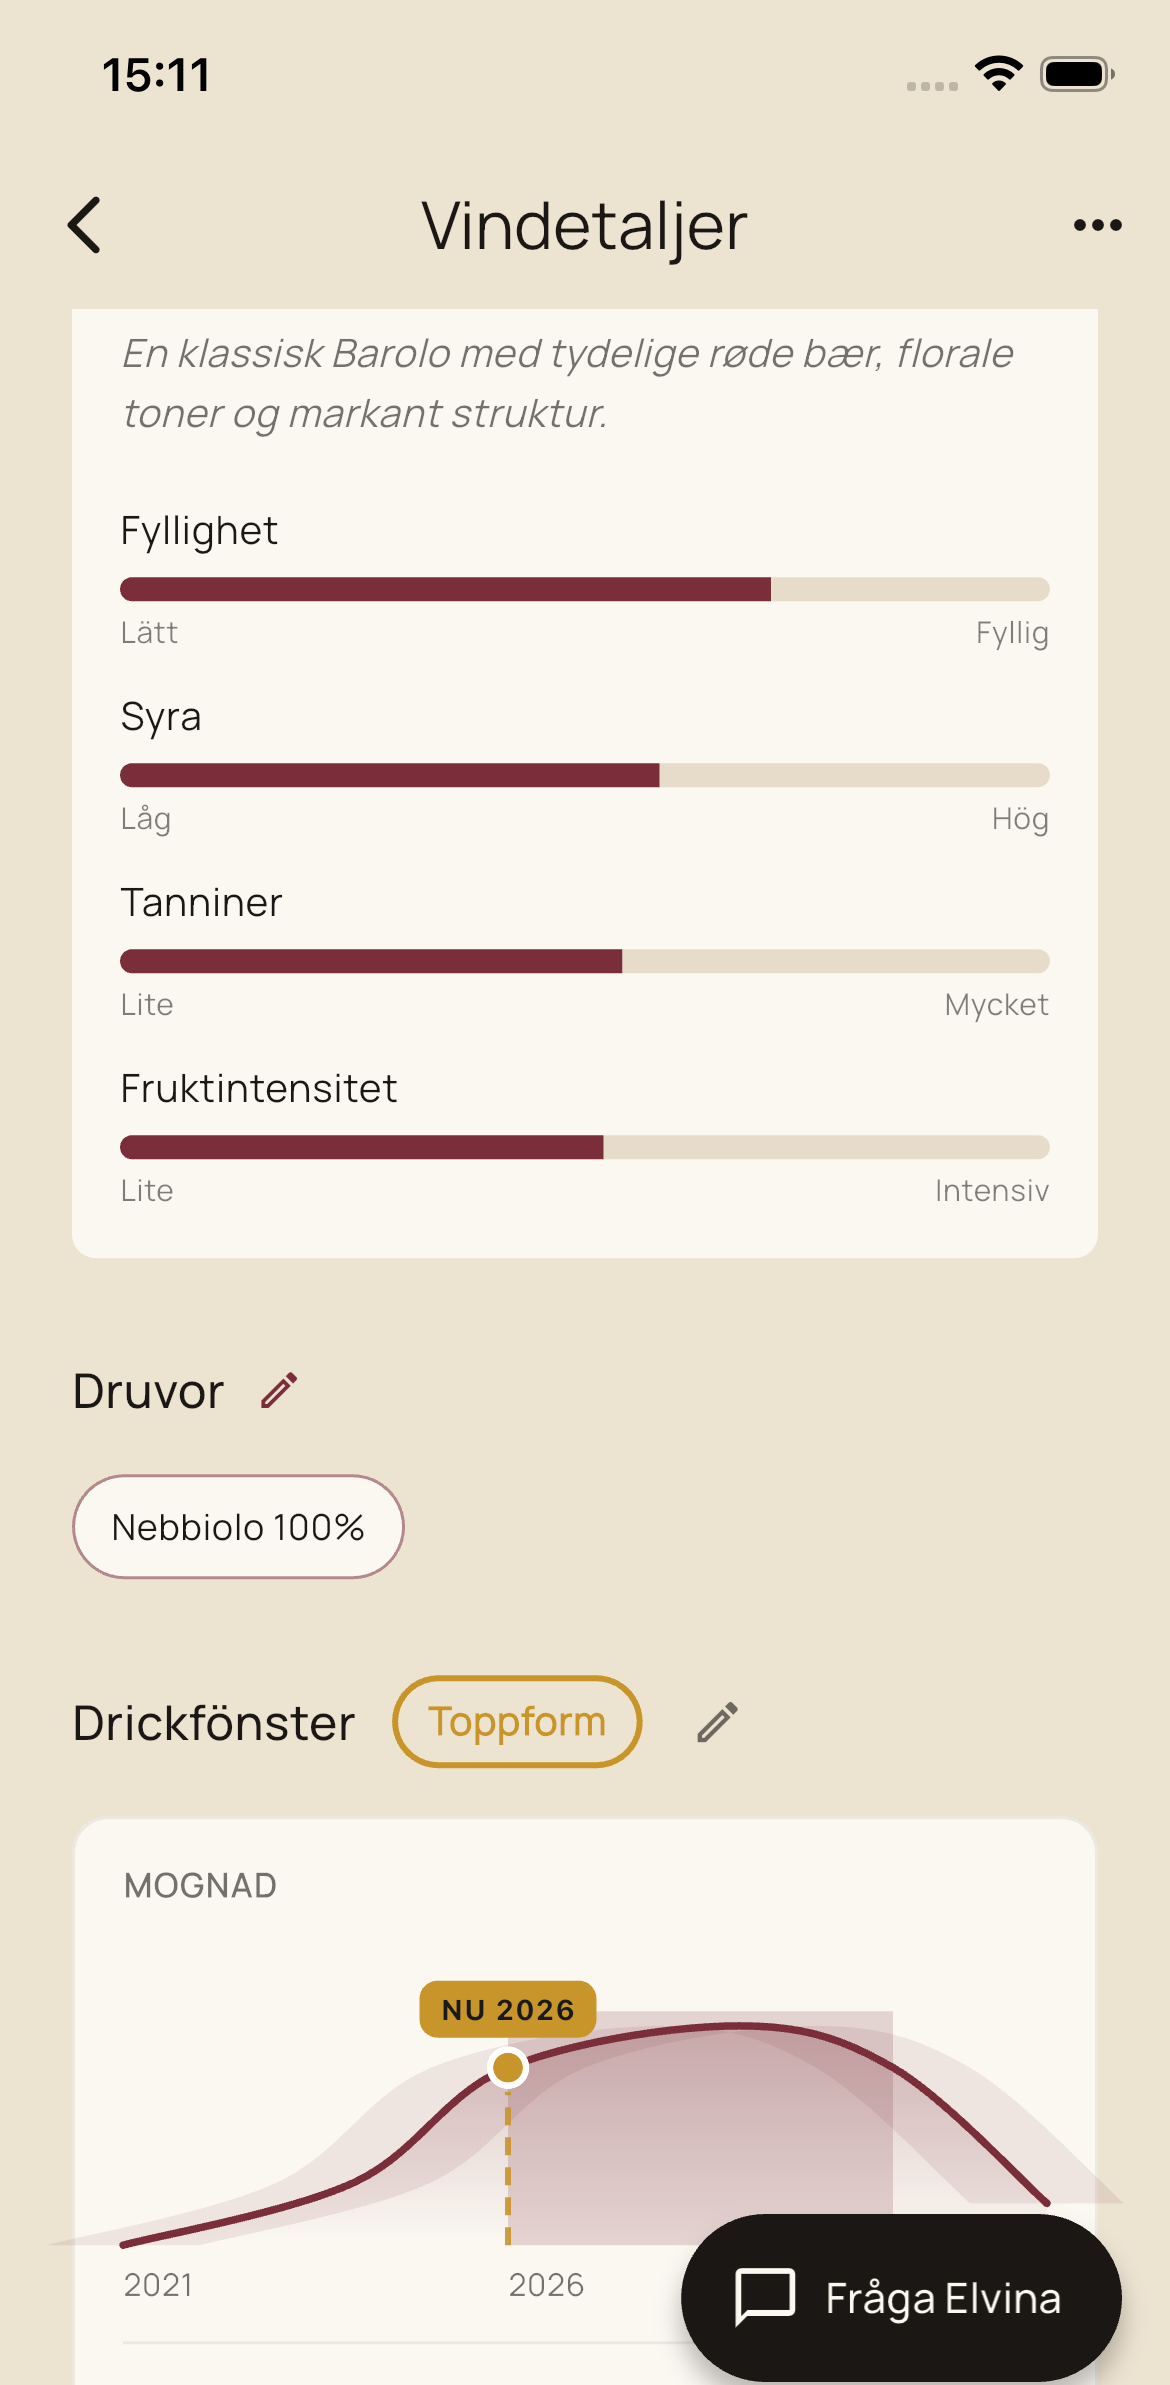
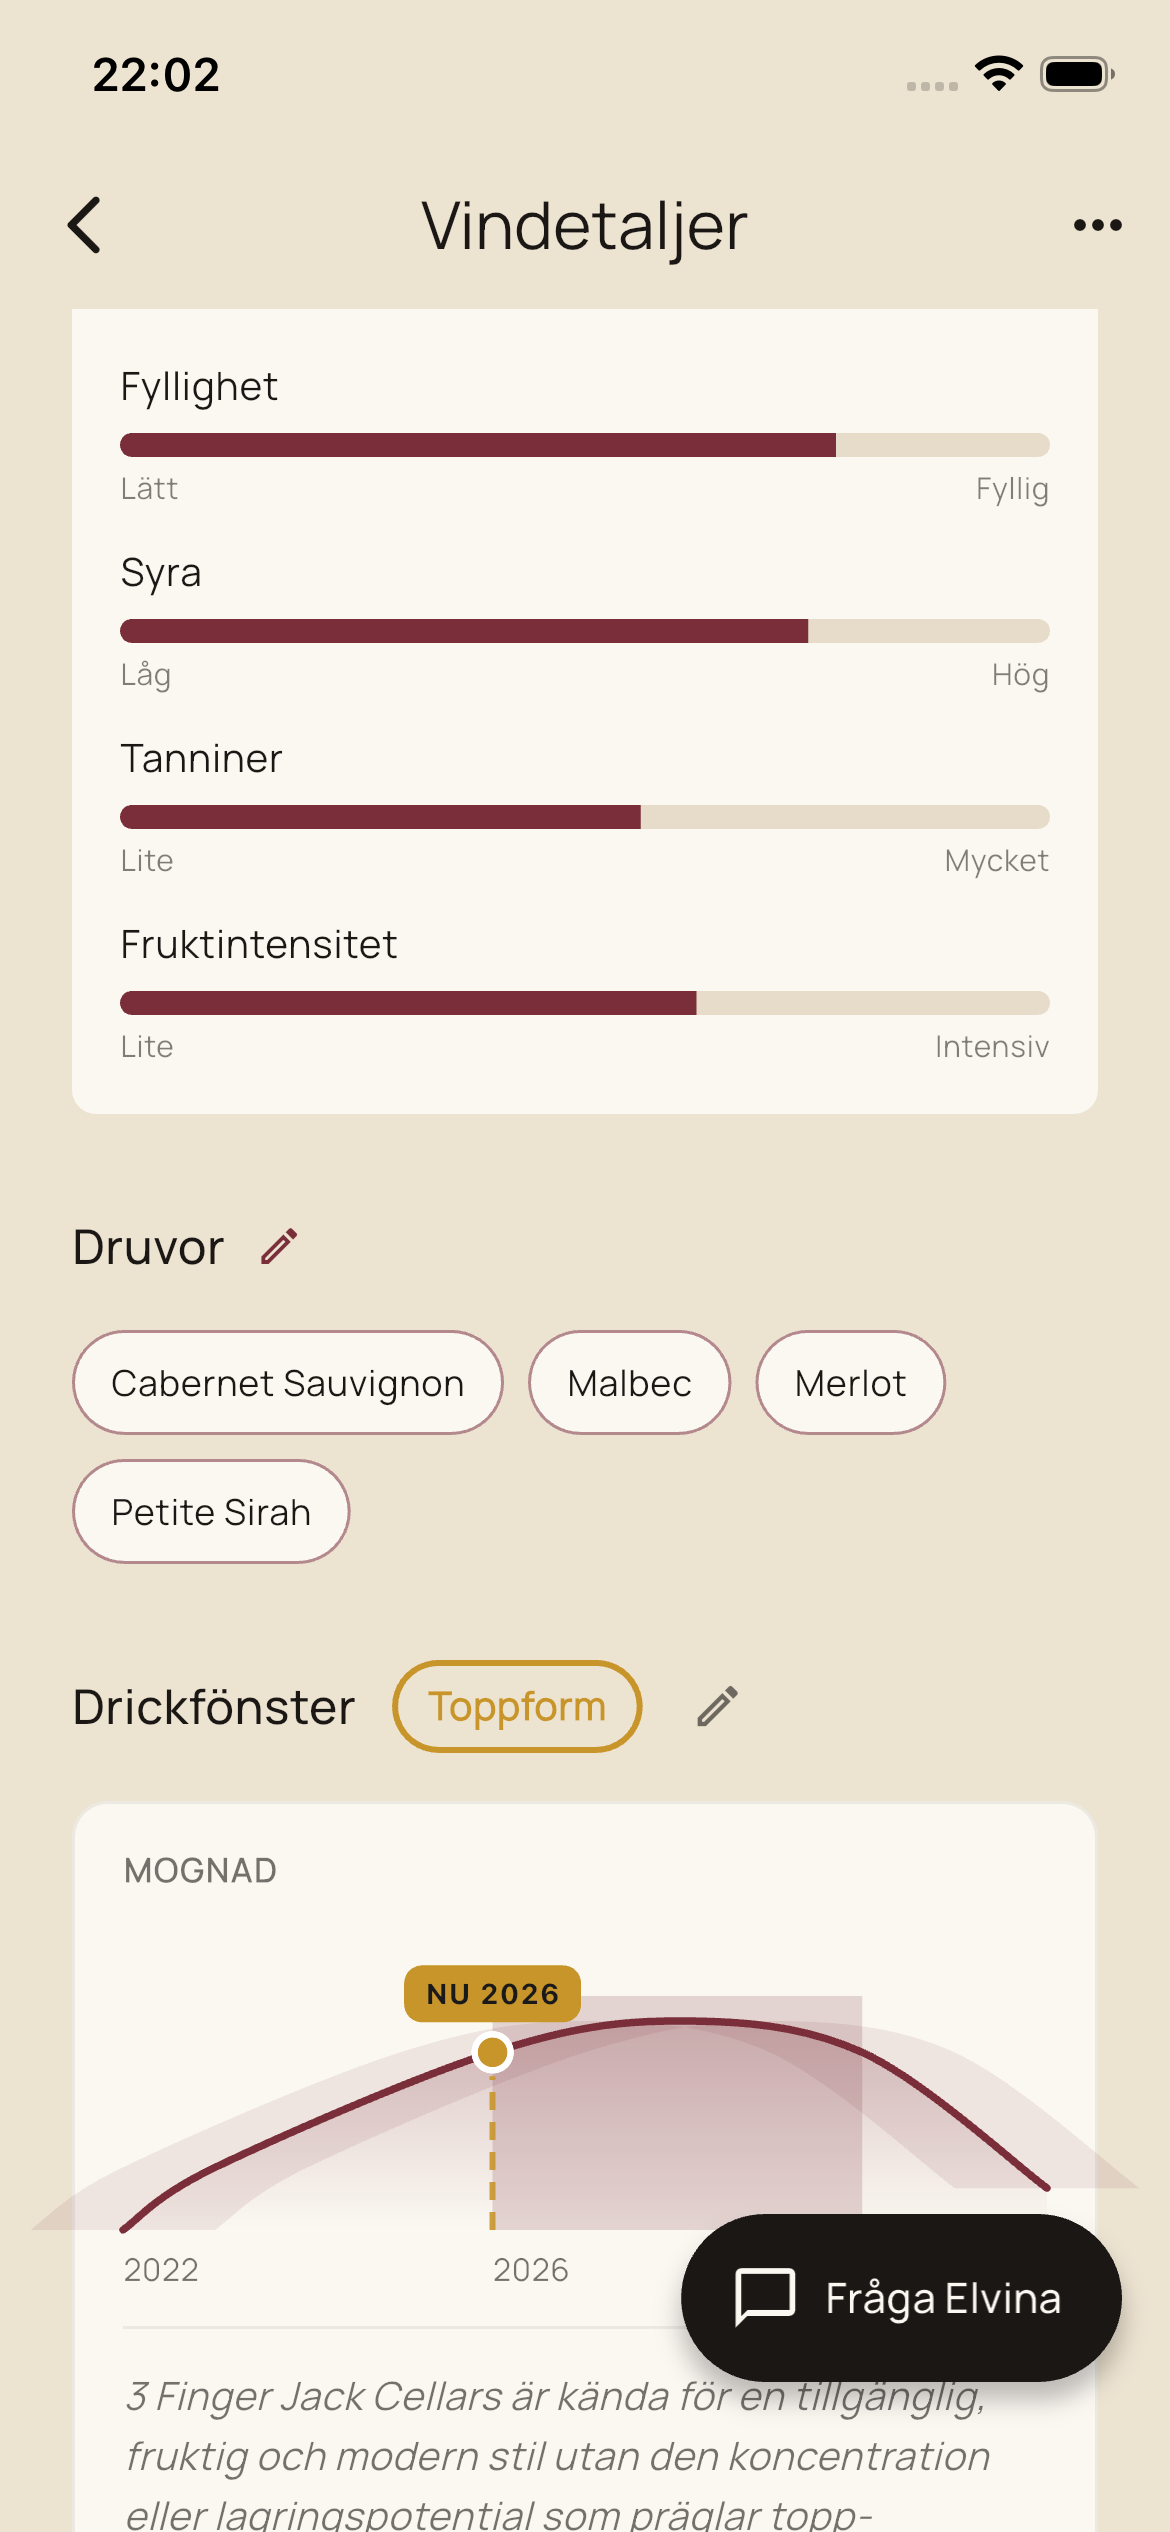
Ny vindetaljer-skärmbild med svensk drickfönstertext

diff --git a/index.html b/index.html
@@ -253,7 +253,7 @@
                   src="/screenshots/elvina-details.png"
                   alt="Vindetaljer – smakprofil och drickfönster"
                   width="1170"
-                  height="2385"
+                  height="2532"
                   loading="lazy"
                 />
               </div>
